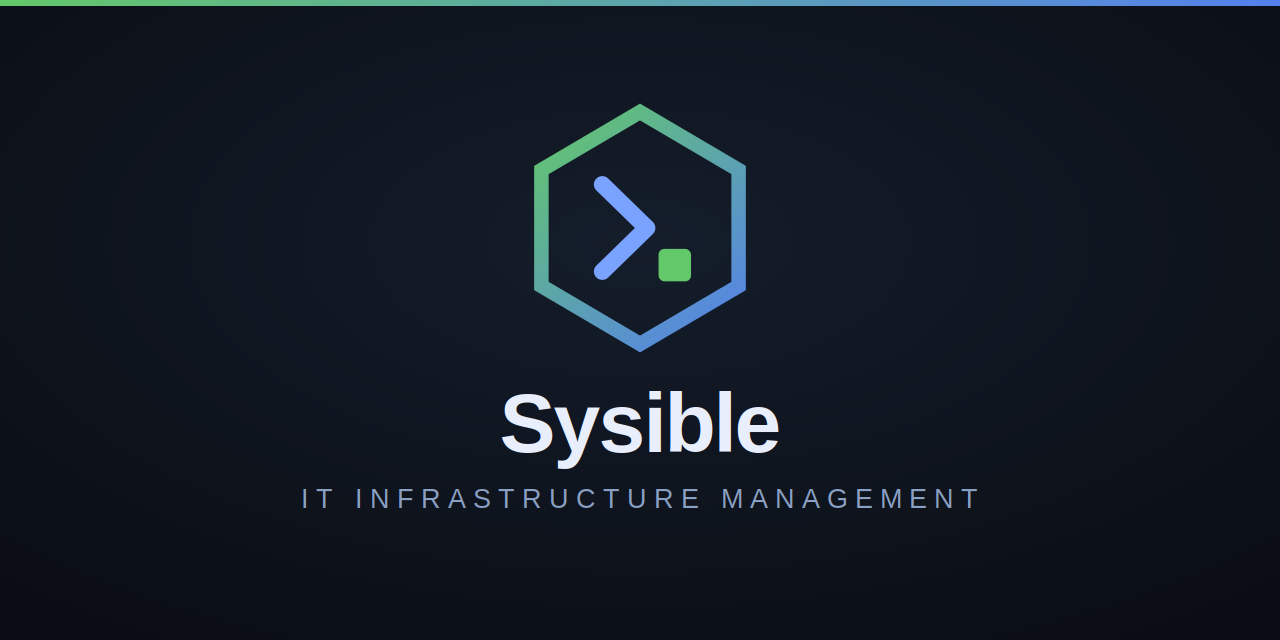
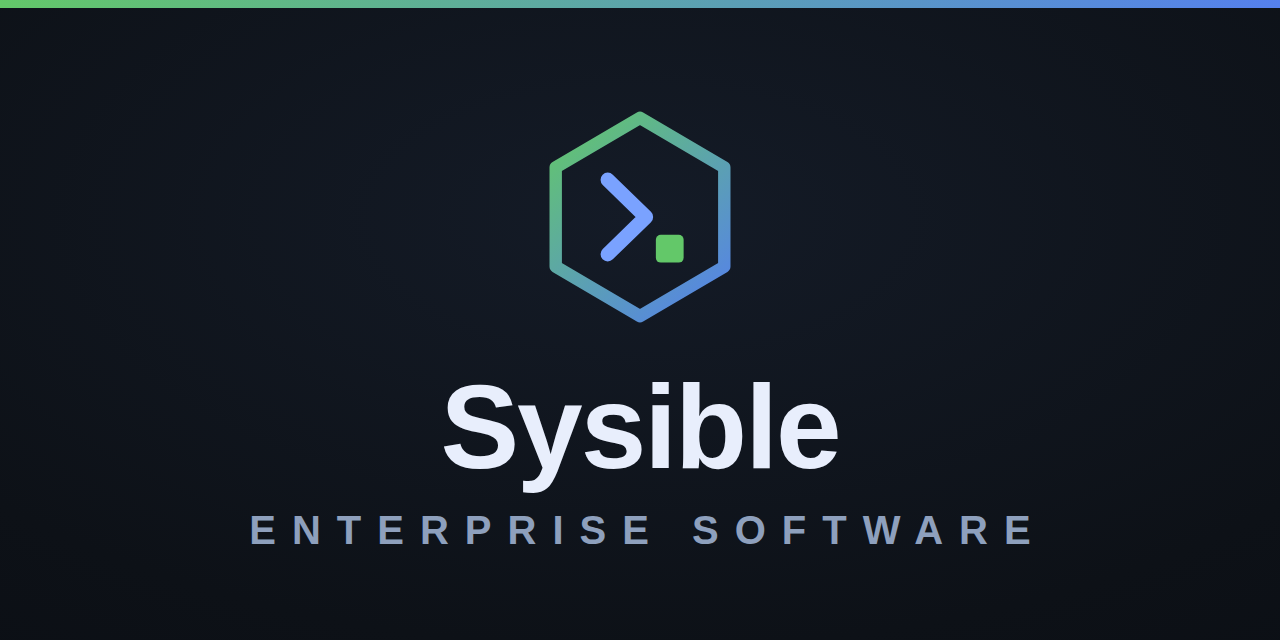
Brand: split taglines — Sysible "Enterprise Software", Controller "IT Infrastructure Management"
- Regenerate the profile logo with more padding + a 512px export sized for a
  GitHub org avatar (the 1024 was too large/cramped as an avatar).
- Sysible social card (site OG social-card.png) now reads "Enterprise Software"
  instead of "IT Infrastructure Management".
- Add a Controller social card (controller-card.png) — controller topology mark
  + "IT Infrastructure Management" — and point the /controller page's OG/Twitter
  image at it.
- Consolidate the brand kit into one editable source (sysible-brand.src.html)
  and document the Sysible-vs-Controller tagline hierarchy in the README.

Changed region(s): [[0.1875, 0.5938, 0.8125, 0.875], [0.4062, 0.1562, 0.5938, 0.5625]]

diff --git a/branding/sysible-brand.src.html b/branding/sysible-brand.src.html
@@ -1,0 +1,67 @@
+<!doctype html><html><head><meta charset="utf-8"><style>
+  html,body{margin:0;padding:0;background:#222}
+  .stage{position:relative;overflow:hidden;
+    font-family:"Liberation Sans","DejaVu Sans","Helvetica Neue",Arial,sans-serif;
+    display:flex;flex-direction:column;align-items:center;justify-content:center;}
+  .dark{background:radial-gradient(120% 120% at 50% 34%, #141b27 0%, #0d1117 56%, #090c12 100%);}
+  .word{font-weight:800;color:#e8eefc;line-height:1;margin:0}
+  .tag{font-weight:600;color:#8ea0bd;text-transform:uppercase;margin:0}
+
+  /* profile avatar 1024², padded so it reads small / survives a circle crop */
+  #profile{width:1024px;height:1024px}
+  #profile .mark{width:322px;height:350px;display:block;margin-bottom:30px}
+  #profile .word{font-size:132px;letter-spacing:-2px}
+  #profile .tag{font-size:37px;letter-spacing:13px;margin:26px 0 0 13px}
+
+  /* social cards 1280×640 */
+  .card{width:1280px;height:640px}
+  .card .mark{width:238px;height:258px;display:block;margin-bottom:22px}
+  .card .word{font-size:118px;letter-spacing:-2px}
+  .card .tag{margin-top:22px}
+  #sysible-card .tag{font-size:40px;letter-spacing:16px;margin-left:16px}
+  #controller-card .word{font-size:104px}
+  #controller-card .tag{font-size:35px;letter-spacing:11px;margin-left:11px}
+  .bar{position:absolute;top:0;left:0;right:0;height:8px;
+    background:linear-gradient(90deg,#63c869,#5580ee)}
+</style></head><body>
+
+<!-- reusable marks -->
+<svg width="0" height="0" style="position:absolute"><defs>
+  <linearGradient id="sg" x1="-17" y1="-20" x2="17" y2="20" gradientUnits="userSpaceOnUse">
+    <stop offset="0" stop-color="#63c869"/><stop offset="1" stop-color="#5580ee"/></linearGradient>
+  <linearGradient id="ctl" x1="-12" y1="0" x2="11" y2="0" gradientUnits="userSpaceOnUse">
+    <stop offset="0" stop-color="#63c869"/><stop offset="1" stop-color="#5580ee"/></linearGradient>
+</defs></svg>
+
+<div class="stage dark" id="profile">
+  <svg class="mark" viewBox="-24 -26 48 52"><use href="#m"/></svg>
+  <p class="word">Sysible</p><p class="tag">Enterprise Software</p>
+</div>
+
+<div class="stage dark card" id="sysible-card">
+  <span class="bar"></span>
+  <svg class="mark" viewBox="-24 -26 48 52"><use href="#m"/></svg>
+  <p class="word">Sysible</p><p class="tag">Enterprise Software</p>
+</div>
+
+<div class="stage dark card" id="controller-card">
+  <span class="bar"></span>
+  <svg class="mark" viewBox="-24 -26 48 52"><use href="#mc"/></svg>
+  <p class="word">Sysible Controller</p><p class="tag">IT Infrastructure Management</p>
+</div>
+
+<!-- mark path defs -->
+<svg width="0" height="0" style="position:absolute"><defs>
+  <g id="m">
+    <path d="M0,-20 L17,-10 L17,10 L0,20 L-17,10 L-17,-10 Z" fill="none" stroke="url(#sg)" stroke-width="2.5" stroke-linejoin="round"/>
+    <path d="M-6.5,-7.5 L1.2,0 L-6.5,7.5" fill="none" stroke="#7aa2ff" stroke-width="2.9" stroke-linecap="round" stroke-linejoin="round"/>
+    <rect x="3.2" y="3.6" width="5.6" height="5.6" rx="1" fill="#63c869"/>
+  </g>
+  <g id="mc">
+    <path d="M0,-20 L17,-10 L17,10 L0,20 L-17,10 L-17,-10 Z" fill="none" stroke="url(#sg)" stroke-width="2.5" stroke-linejoin="round"/>
+    <path d="M-11,0 L0,0 M0,0 L11,-8 M0,0 L11,8" stroke="url(#ctl)" stroke-width="1.7" fill="none" stroke-linecap="round" stroke-linejoin="round"/>
+    <circle cx="-11" cy="0" r="3.1" fill="#63c869"/><circle cx="0" cy="0" r="3.3" fill="#57b090"/>
+    <circle cx="11" cy="-8" r="3.1" fill="#5580ee"/><circle cx="11" cy="8" r="3.1" fill="#5580ee"/>
+  </g>
+</defs></svg>
+</body></html>

diff --git a/controller.html b/controller.html
@@ -7,11 +7,11 @@
 <meta property="og:title" content="Sysible Controller — IT infrastructure management for Linux fleets">
 <meta property="og:description" content="A self-hosted, point-and-click operations console for Linux fleets. One controller, agent or SSH, no DSL to learn.">
 <meta property="og:url" content="https://sysible.com/controller">
-<meta property="og:image" content="https://sysible.com/social-card.png">
+<meta property="og:image" content="https://sysible.com/controller-card.png">
 <meta name="twitter:card" content="summary_large_image">
 <meta name="twitter:title" content="Sysible Controller">
 <meta name="twitter:description" content="A self-hosted, point-and-click operations console for Linux fleets.">
-<meta name="twitter:image" content="https://sysible.com/social-card.png">
+<meta name="twitter:image" content="https://sysible.com/controller-card.png">
 <style>
   /* ---- tokens: light in :root, dark via media + explicit stamp (3-state) ---- */
   :root{

diff --git a/branding/README.md b/branding/README.md
@@ -1,17 +1,21 @@
 # Sysible brand kit
 
-Canonical logo exports. Transparent PNGs unless noted.
+Canonical logo exports. Transparent PNGs unless noted. Edit `sysible-brand.src.html` and re-render with Chromium to regenerate the composed (text-bearing) assets.
 
 | File | Use |
 |------|-----|
 | `sysible-lockup-dark.png` | Horizontal mark + wordmark, for **dark** backgrounds (near-white text). README banners, dark UI. |
 | `sysible-lockup-light.png` | Same lockup for **light** backgrounds (navy text). |
-| `sysible-avatar-512.png` | Square 512×512 mark on the dark ground. GitHub/social **profile avatar** (safe for circular crop). |
-| `sysible-social-1280x640.png` | 1280×640 **social preview / Open Graph** card (mark + wordmark + tagline). |
-| `sysible-profile-1024.png` | 1024×1024 stacked mark + wordmark + **ENTERPRISE SOFTWARE** tagline, dark ground. GitHub **org profile / avatar with text**. Source: `sysible-profile.src.html` (render with Chromium). |
+| `sysible-avatar-512.png` | Square 512×512 **mark only** on the dark ground (safe for circular crop). |
+| `sysible-profile-512.png` / `-1024.png` | Stacked mark + wordmark + **ENTERPRISE SOFTWARE** tagline, dark ground. GitHub **org profile / avatar with text** — upload the 512. |
+| `sysible-social-1280x640.png` | 1280×640 **Sysible** social / Open Graph card — **Enterprise Software** tagline. Mirrored at site root as `social-card.png`. |
+| `sysible-controller-1280x640.png` | 1280×640 **Sysible Controller** social card — controller mark + **IT Infrastructure Management** tagline. Mirrored at site root as `controller-card.png`. |
+
+## Brand hierarchy
+- **Sysible** (the company) → tagline **Enterprise Software**.
+- **Sysible Controller** (the product) → tagline **IT Infrastructure Management**, controller topology mark.
 
 ## Palette
-
 - Green `#63c869` (bright) / `#43a047` (deep)
 - Blue `#5580ee` (bright) / `#3560d4` (deep)
 - Prompt accent `#7aa2ff`
